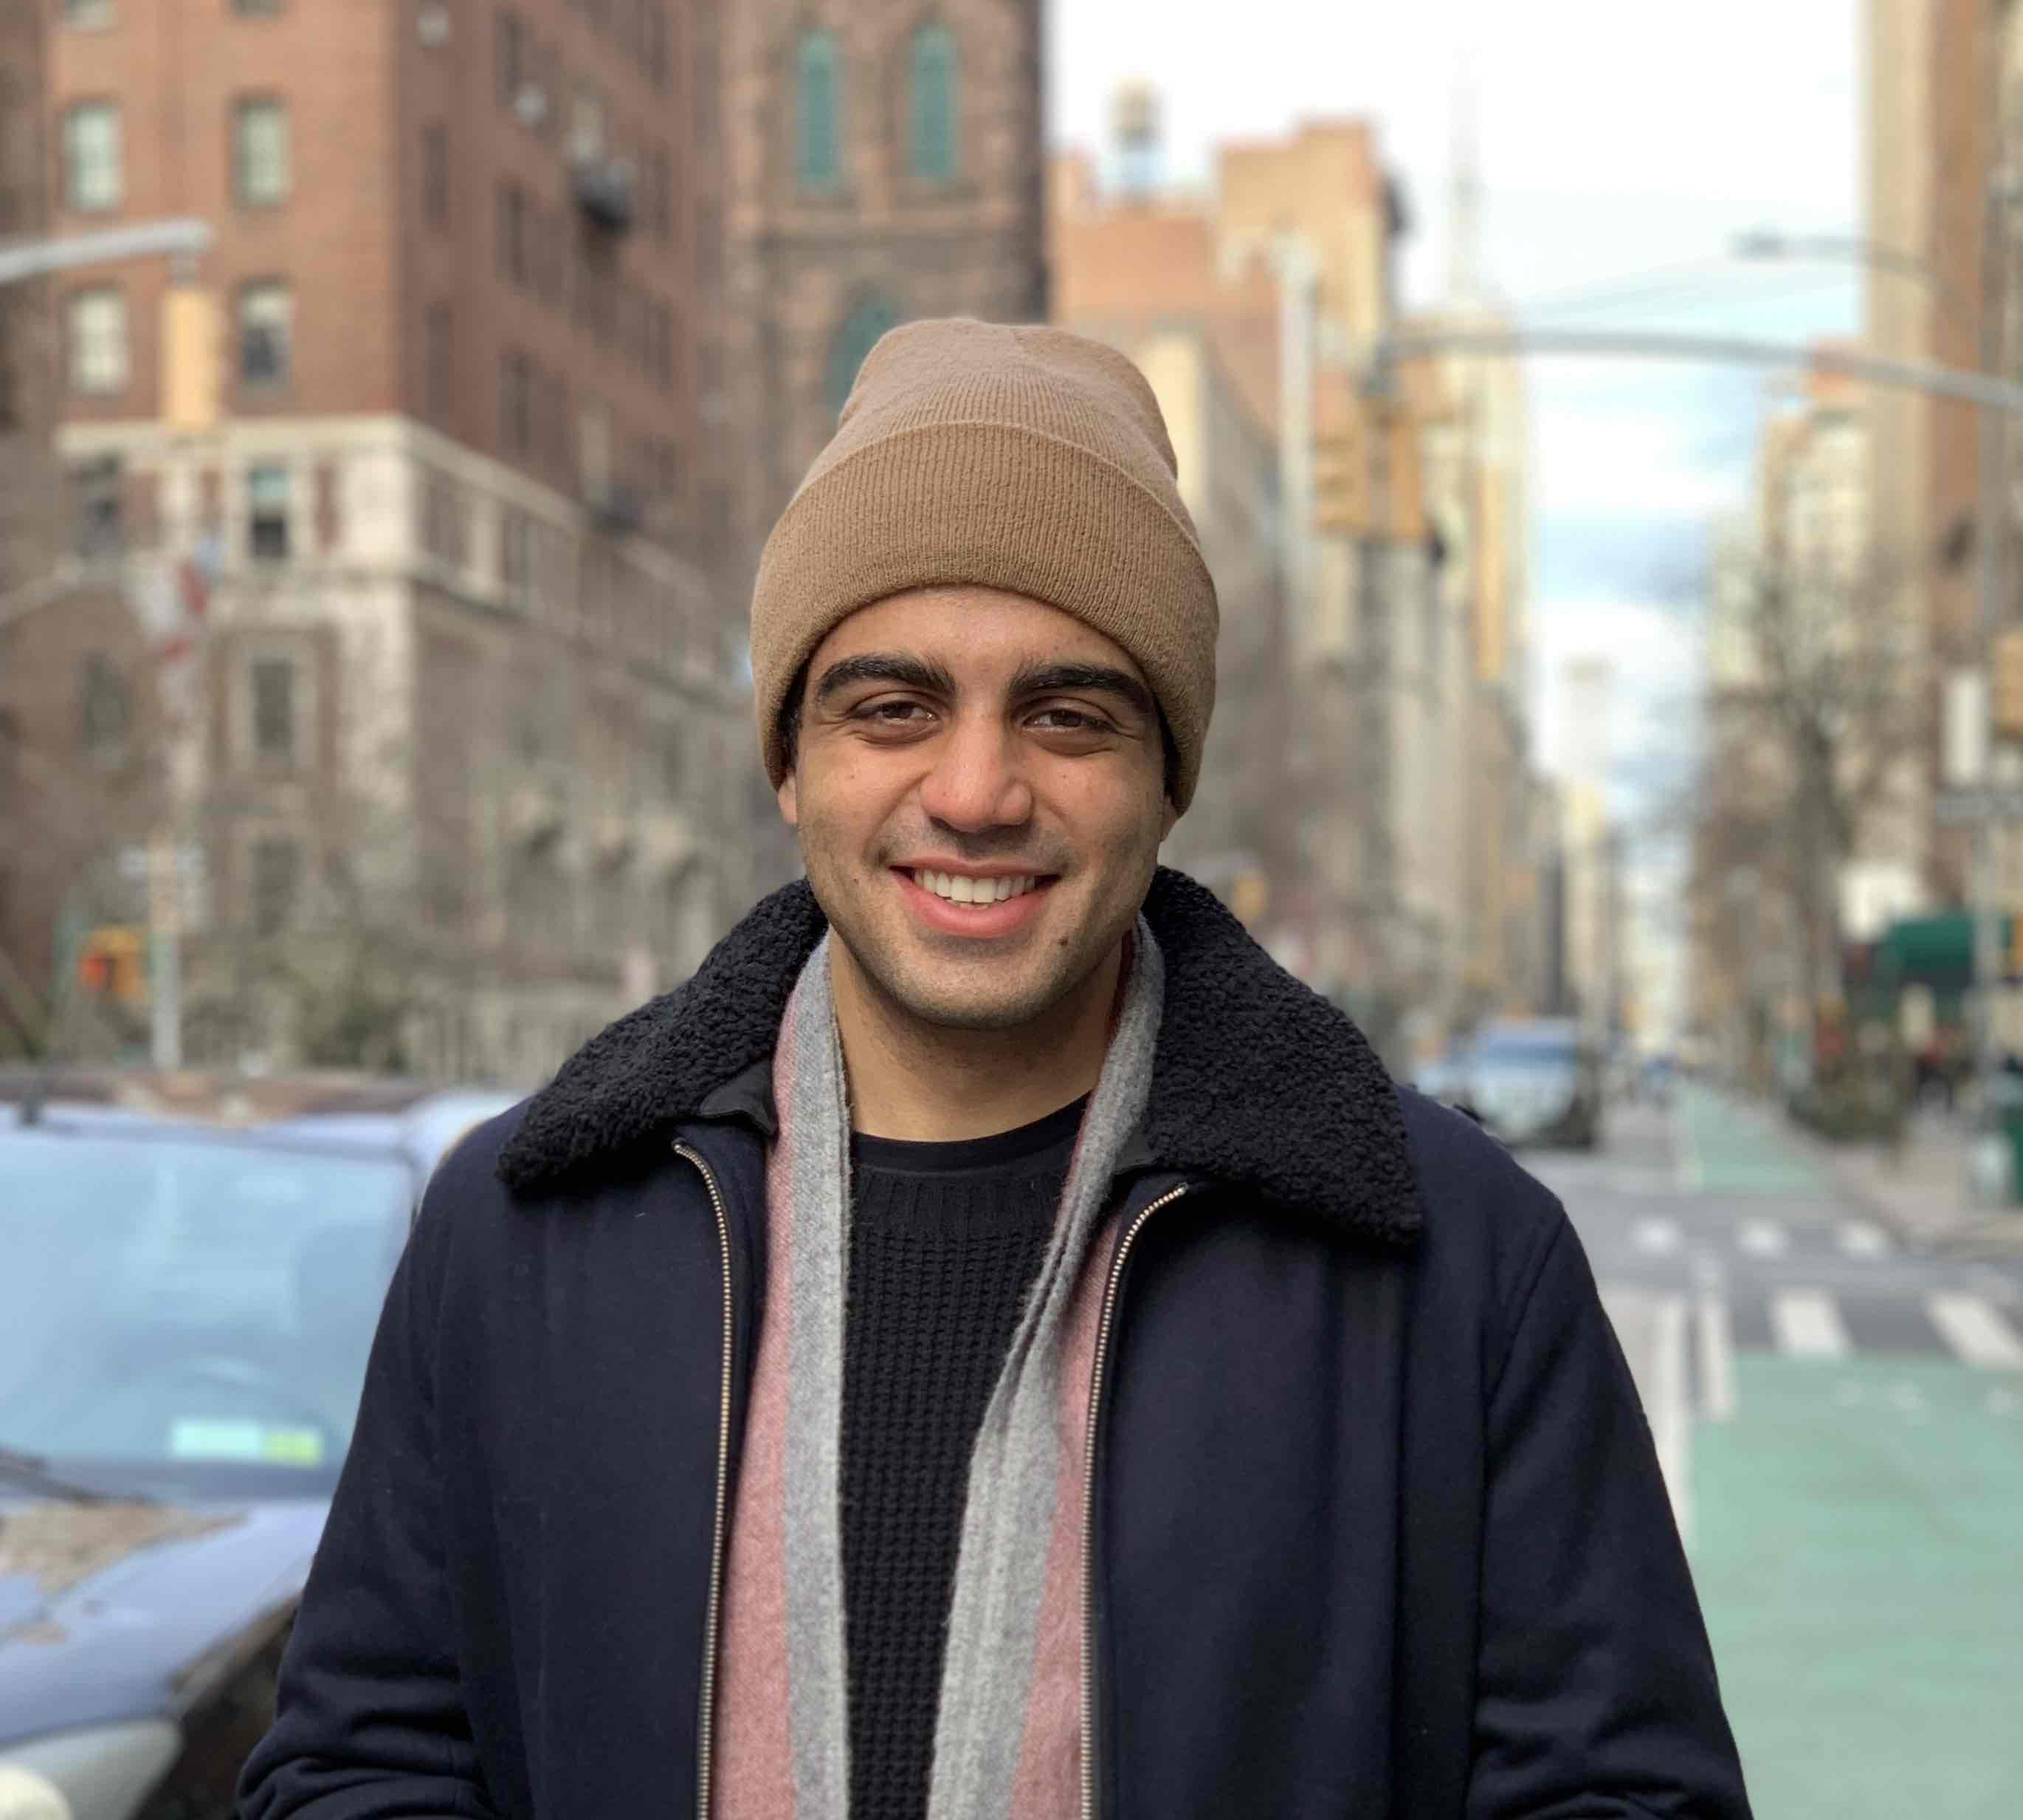
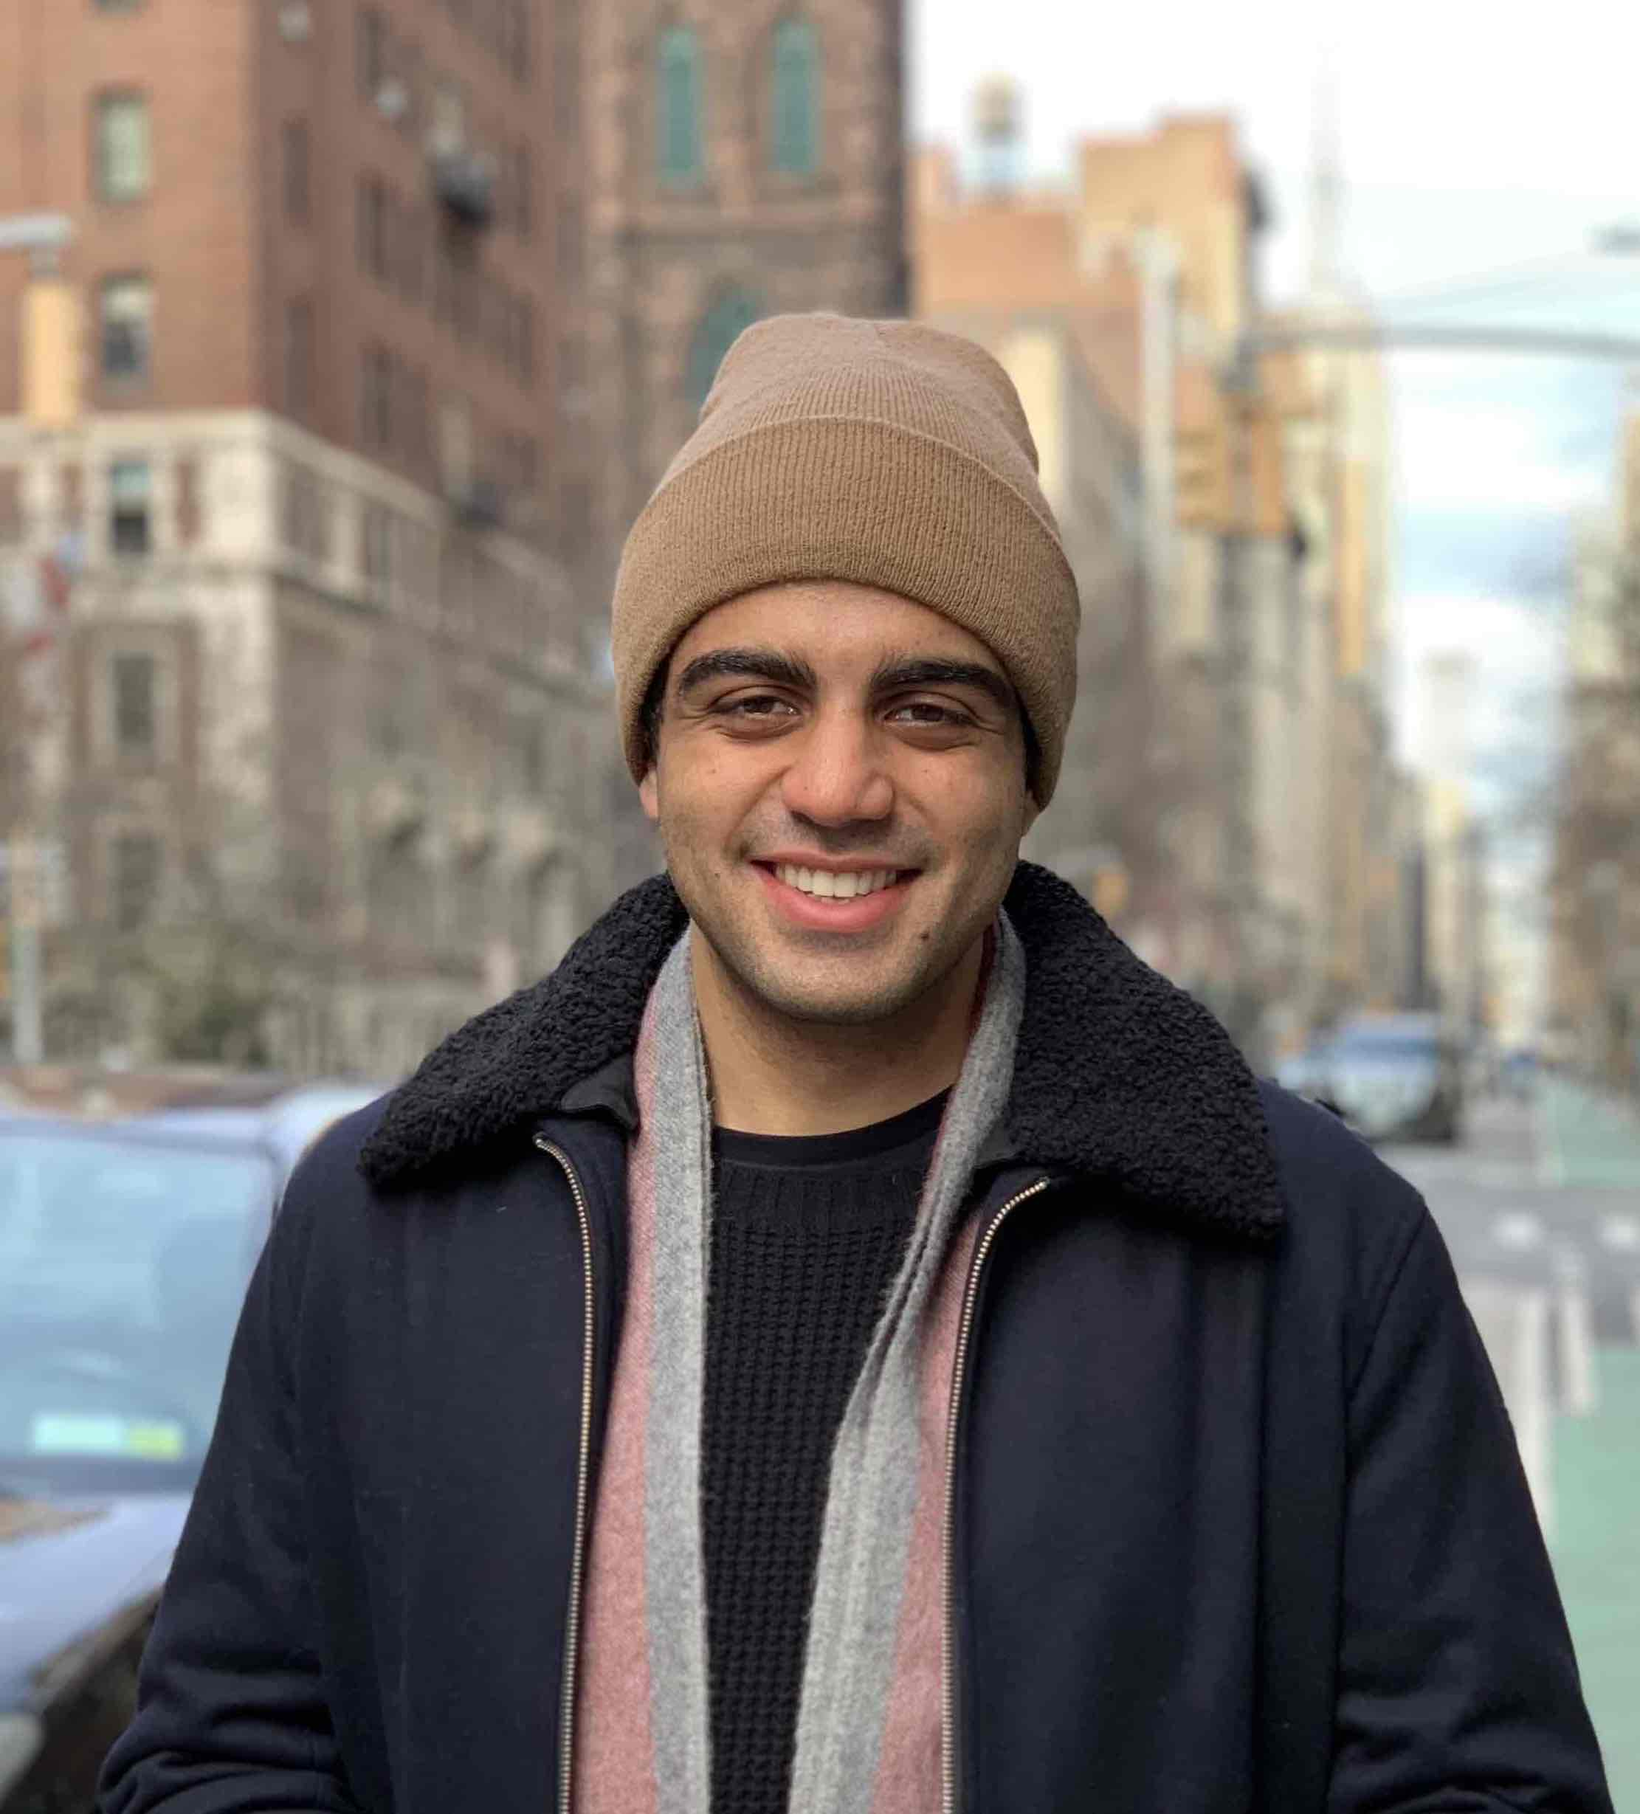
updated memberpic

diff --git a/people.html b/people.html
@@ -274,10 +274,41 @@ table th {
 												</span> 
 												</div>  
 											</td>
-											<td style="text-align: center;"> </td>
-											<td style="text-align: center;"> </td>
+											<td style="text-align: center;"> 
+													<div style="width:130px;"><span class="image fit">
+														<div class="image-cropper"><img src="memberpic/Rahul.jpg" alt=""></div>
+														<span><a class="alt fit" style="font-size:18px; color:black" href="https://github.com/Rahul-Khanna" target="_blank" >Rahul Khanna</a></span>
+												</span> 
+												</div>  
+											</td>
+											<td style="text-align: center;"> 
+												<div style="width:130px;"><span class="image fit">
+													<div class="image-cropper"><img src="memberpic/MingShen.jpg" alt=""></div>
+													<span><a class="alt fit" style="font-size:18px; color:black" href="" target="_blank" >Ming Shen</a></span>
+											</span> 
+											</div>  
+											</td>
+
 										</tr>
-						
+										<tr>
+											<td style="text-align: center;">  
+												<div style="width:130px"><span class="image fit">
+														<div class="image-cropper"><img src="memberpic/default.jpg" alt=""></div>
+														<span><a class="alt fit" style="font-size:18px; color:black" href="" target="_blank" >Xiao Huang</a></span>
+												</span> 
+												</div>  
+											</td>
+											<td style="text-align: center;">  
+												
+											</td>
+											<td style="text-align: center;">  
+												
+											</td>
+											<td style="text-align: center;">  
+												
+											</td>
+										</tr>
+										
 									</table>
 							</div>  
 					</div> 
@@ -351,6 +382,7 @@ table th {
 												}
 												</script>
 	<span class="info-visitor"  style="display:none; font-size:16px; align-content: center"><a class=""   target="_blank" href="https://lanouyu.github.io/bio/" >Ouyu Lan</a>:  Master student at USC<br>
+	
 	<span class="info-visitor"  style="display:none; font-size:16px; align-content: center"><a class=""   target="_blank" href="http://home.ustc.edu.cn/~xyyimian/" >Yu Xing</a>:  1st year master student at USC<br>
 	<span class="info-visitor"  style="display:none; font-size:16px; align-content: center"><a class=""   target="_blank" href="" >Deren Lei</a>:  Master student at USC<br>
 	<span class="info-visitor"  style="display:none; font-size:16px; align-content: center"><a class=""   target="_blank" href="https://www.linkedin.com/in/he-jiang-022a1483/" >He Jiang</a>:  3rd year PhD student at USC (01/2019 ~)<br>
